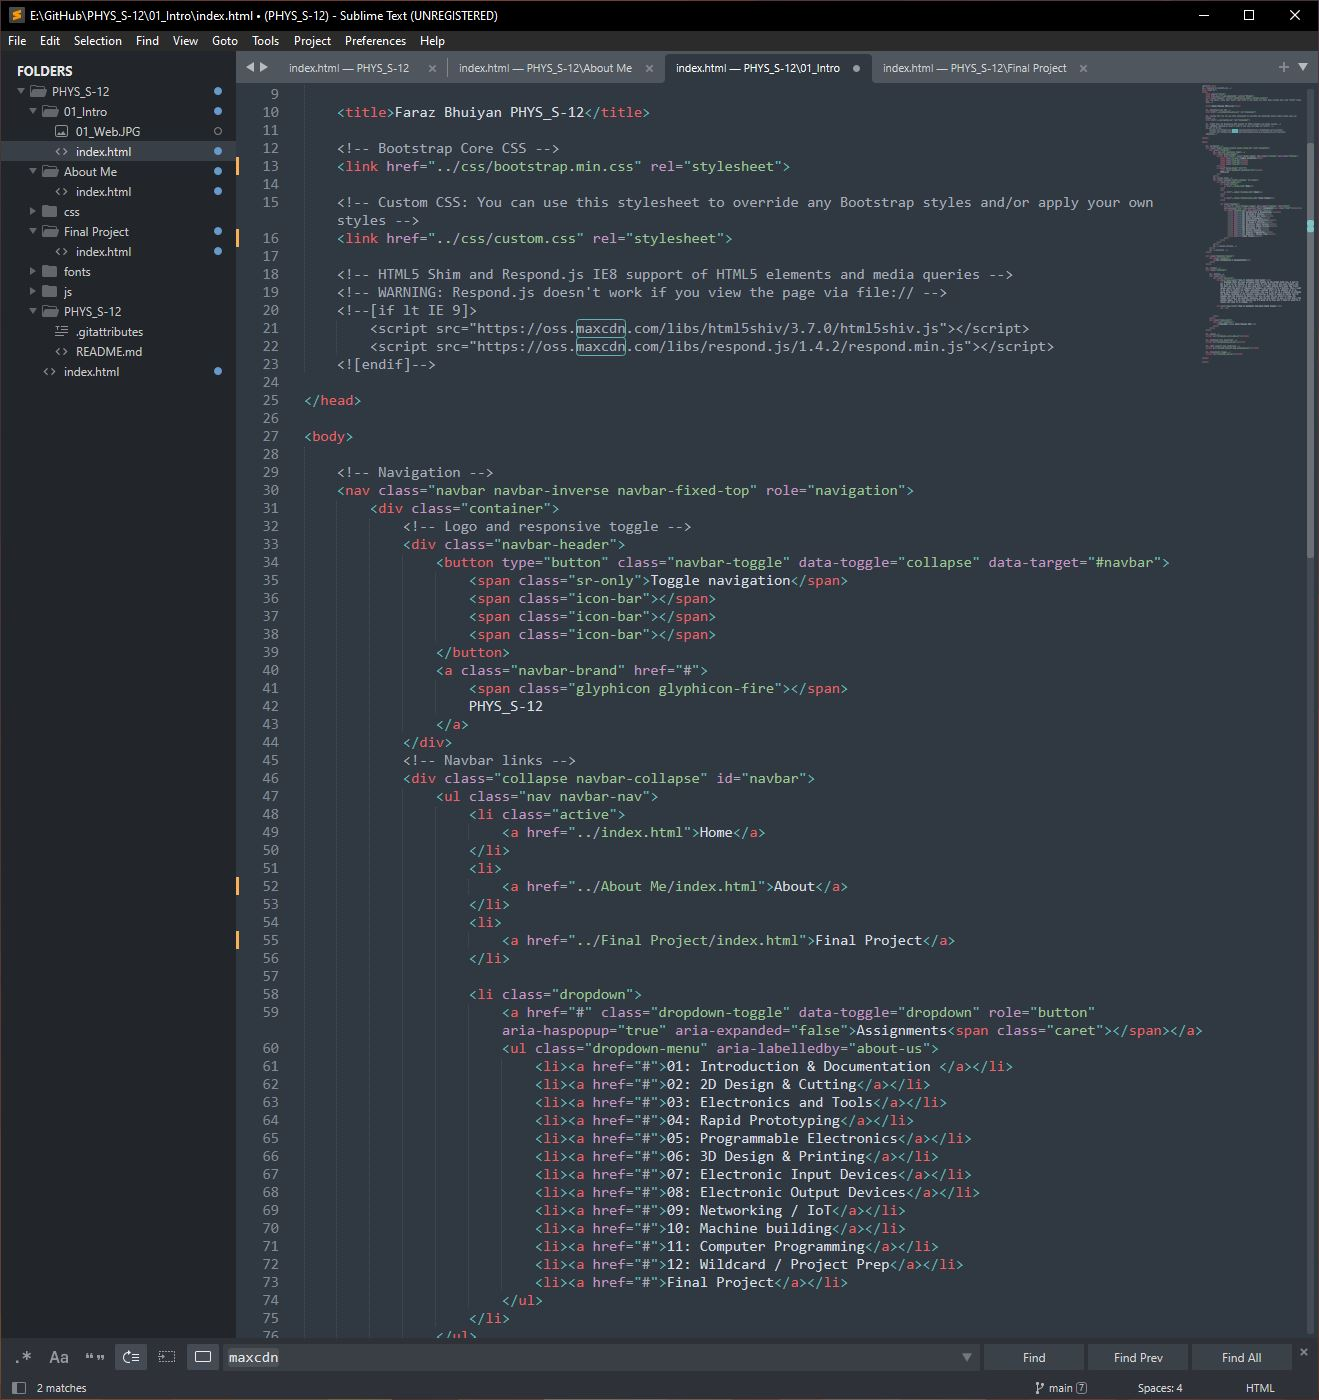
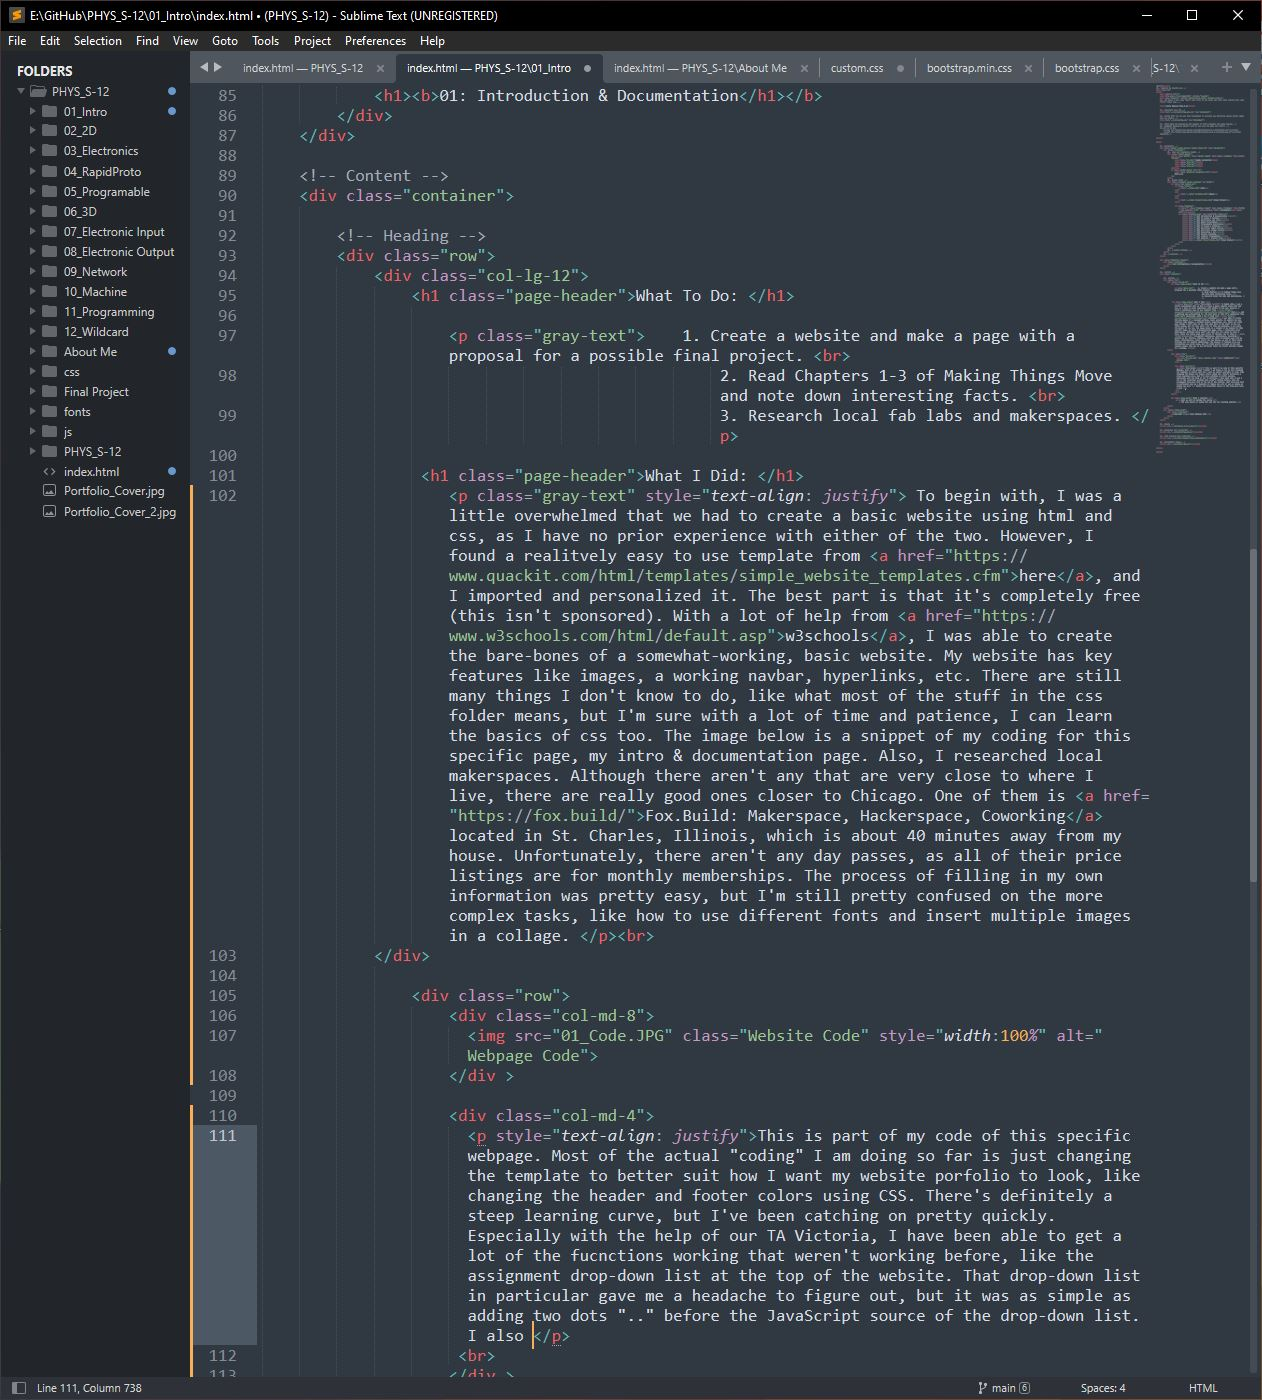
Formatted 01 page and added more info to paragraphs.

diff --git a/01_Intro/index.html b/01_Intro/index.html
@@ -99,20 +99,53 @@
                                                  3. Research local fab labs and makerspaces. </p>
 
                  <h1 class="page-header">What I Did: </h1>
-                    <p class="gray-text"> To begin with, I was a little overwhelmed that we had to create a basic website using html and css, as I have no prior experience with either of the two. However, I found a realitvely easy to use template from <a href="https://www.quackit.com/html/templates/simple_website_templates.cfm">here</a>, and I imported and personalized it. The best part is that it's completely free (this isn't sponsored). With a lot of help from <a href="https://www.w3schools.com/html/default.asp">w3schools</a>, I was able to create the bare-bones of a somewhat-working, basic website. My website has key features like images, a working navbar, hyperlinks, etc. There are still many things I don't know to do, like what most of the stuff in the css folder means, but I'm sure with a lot of time and patience, I can learn the basics of css too. The image below is a snippet of my coding for this specific page, my intro & documentation page. Also, I researched local makerspaces. Although there aren't any that are very close to where I live, there are really good ones closer to Chicago. One of them is <a href="https://fox.build/">Fox.Build: Makerspace, Hackerspace, Coworking</a> located in St. Charles, Illinois, which is about 40 minutes away from my house. Unfortunately, there aren't any day passes, as all of their price listings are for monthly memberships. The process of filling in my own information was pretty easy, but I'm still pretty confused on the more complex tasks, like how to use different fonts and insert multiple images in a collage. </p><br>
+                    <p style="text-align: justify"> To begin with, I was a little overwhelmed that we had to create a basic website using html and css, as I have no prior experience with either of the two. However, I found a realitvely easy to use template from <a href="https://www.quackit.com/html/templates/simple_website_templates.cfm">here</a>, and I imported and personalized it. The best part is that it's completely free (this isn't sponsored). With a lot of help from <a href="https://www.w3schools.com/html/default.asp">w3schools</a>, I was able to create the bare-bones of a somewhat-working, basic website. My website has key features like images, a working navbar, hyperlinks, etc. There are still many things I don't know to do, like what most of the stuff in the css folder means, but I'm sure with a lot of time and patience, I can learn the basics of css too. </p>
 
-                    <p><h4 class="gray-text">Part of my code of this specific webpage.</p></h4>
-                    <img src="01_Code.JPG" alt="Website Code" width="1000px"> 
+                    <p style="text-align: justify">Also, I researched local makerspaces. Although there aren't any that are very close to where I live, there are really good ones closer to Chicago. One of them is <a href="https://fox.build/">Fox.Build: Makerspace, Hackerspace, Coworking</a> located in St. Charles, Illinois, which is about 40 minutes away from my house. Unfortunately, there aren't any day passes, as all of their price listings are for monthly memberships. I'm sure if I reach out to them and ask about day passed, we can work something out. Although, I already have a few power tools and a 3D printer at home, so I can easily make do with what I have. </p><br><br> 
+            </div>
+
+                <div class="row">
+
+                    <div class="col-lg-6">
+                      <img src="01_Code.JPG" style="width:100%" alt="Webpage Code">
+                    </div >
+
+                    <div class="col-lg-6">
+                      <p style="text-align: justify"> The code-editing app we are using is Sublime Text. The code to the left is edited on Sublime Text and is part of my code of this specific webpage. Most of the actual "coding" I am is just changing the template to better suit how I want my website porfolio to look, like changing the header and footer colors using CSS. There's definitely a steep learning curve, but I've been catching on pretty quickly. </p>
+
+                     <p style="text-align: justify"> With the help of our TA Victoria, I was able to get a few fucnctions working that weren't working before, like the assignment drop-down list, which is at the top of the website. The drop-down list in particular was a headache to figure out, because it just wasn't working properly. The solution was as simple as adding two dots ".." before the JavaScript source. Adding one dot "." means that the source is in the parent folder of the current index. Similarly, adding two dots ".." means that the source is two folders outside of the current index. 
+
+                    <p style="text-align: justify"> I also organized my folders so that in the future, when I want to add something to a certain assignment, it would be simple and easy to understand. The folder list is on the left-hand side of the Sublime Text application. The actual code is on the large section to the right of the folder list. In the image, you can actually see the what these paragraphs I'm writing look like in HTML code. </p> <br> <br> 
+                    </div >
+                </div>  
+
+                <div class="row">
+
+                  <div class="col-lg-5">
+                     <p style="text-align: justify"> To the right is the GitHub Desktop application. Whenever I change my code in Sublime Text, it only changes my website when I locally view it (open the website through the index file). So, I use the GitHub Desktop app to push any of my changes that I made in the code to the actual website. In the app, you can see everything that was edited, so you know exactly what you're changing. There is also a way to make a "branch," which is a "branch" from the main. So if I wanted to test a few things but didn't want to edit my main website, I could make a branch.</p>
+
+                     <p style="text-align: justify"> The process for uploading on this app is really simple. All I have to do is open the app after I have edited the code, write out a mandatory summary of the changes I made, then click "Commit to main." And just like that, I can easily update my website whenever I want.</p>
+                 </div >
+                  <div class="col-lg-7">
+                      <img src="01_GitHubDesktop.JPG" style="width:100%" alt="GitHub Desktop Application">
+                    </div >
+               </div> 
 
                 <h1 class="page-header">What I Learned: </h1>
-                     <p> » What we will do during the course <br>
-                         » The very basics of using HTML and CSS for creating websites </p>
+                     <p> » The basics of using HTML and CSS<br>
+                         » How to use key features of Sublime Text <br>
+                         » How to use key featurs of GitHub Desktop <br>
+                         » How to locally view my website <br>
+                         » Basic troubleshooting methods <br>
+                         » How to create new CSS classes <br>
+                         » What CSS and HTML classed do
+                     </p>
 
             </div>
         </div>
         <div class="small-print">
             <div class="container">
-                <p>Copyright &copy; Faraz Bhuiyan 2021 </p>
+                <p style="text-align: center">Copyright &copy; Faraz Bhuiyan 2021 </p>
             </div>
         </div>
     </div>

diff --git a/About Me/index.html b/About Me/index.html
@@ -92,8 +92,8 @@
         <!-- Heading -->
         <div class="row">
             <div class="col-lg-12">
-                <h1 class="page-header" style="text-align: center">  Introduction: </h1> 
-                    <p class="col-lg-5"> Hello! My name is Faraz Bhuiyan, and I'm currently a 17-year old living in Naperville, Illinois. My hobbies include 3D printing, fish keeping, and playing the piano. I love going to local museums, like Museum of Science and Industry, the Field Museum, and Shedd Aquarium, all of which are in Chicago, about a 40 minute drive from my house. The main reason I joined this course is because I have been interested in designing and modeling (personal fabrication) for as long as I can remember. From drawing model rockets as a child to building a 3D printer to physically creating my designs now, my interest in the STEM field has grown significantly throughout my life, especially in engineering. In the future, I want to pursue a career in civil or structural engineering, as those are my two favorite engineering fields.</p>
+                <h1 class="page-header" style="text-align: center" >  Introduction: </h1> 
+                    <p class="col-lg-5" style="text-align: justify"> Hello! My name is Faraz Bhuiyan, and I'm currently a 17-year old living in Naperville, Illinois. My hobbies include 3D printing, fish keeping, and playing the piano. I love going to local museums, like Museum of Science and Industry, the Field Museum, and Shedd Aquarium, all of which are in Chicago, about a 40 minute drive from my house. The main reason I joined this course is because I have been interested in designing and modeling (personal fabrication) for as long as I can remember. From drawing model rockets as a child to building a 3D printer to physically creating my designs now, my interest in the STEM field has grown significantly throughout my life, especially in engineering. In the future, I want to pursue a career in civil or structural engineering, as those are my two favorite engineering fields.</p>
 
                 <p style="text-align: center">Me in front of the lion statue at The Art Institute of Chicago </p> 
                  <img src="Me.jpg" class="center" alt="Me at art museum" width=400px>

diff --git a/index.html b/index.html
@@ -104,12 +104,12 @@
         <div class="row">
             <article class="col-lg-3 article-intro">
                 <a href="./01_Intro/index.html">
-                    <img class="img-responsive img-rounded" src="./01_Intro/01_Web2.JPG" alt="Website Code">
+                    <img class="img-responsive img-rounded" src="./01_Intro/01_Web2.JPG" alt="Website Code" style="width:100%">
                 </a>
                 <h3>
                     <a href="./01_Intro/index.html">01: Introduction & Documentation</a> <!-- Assignment Name -->
                 </h3>
-                <h4 class="gray-text">Create the skeleton of a basic webiste portfolio, brainstorm final project ideas, research local makerspaces, and read chapters 1-3 of Making Things Move.</h4> <!-- Description -->
+                <h4 class="gray-text">Create the skeleton of a basic webiste portfolio, brainstorm final project ideas, research local makerspaces, and read chapters 1-3 of <a href= "http://mars1980.github.io/resources/making_things_move.pdf">Making Things Move.</a></h4> <!-- Description -->
             </article>
 
             <article class="col-md-3 article-intro">
